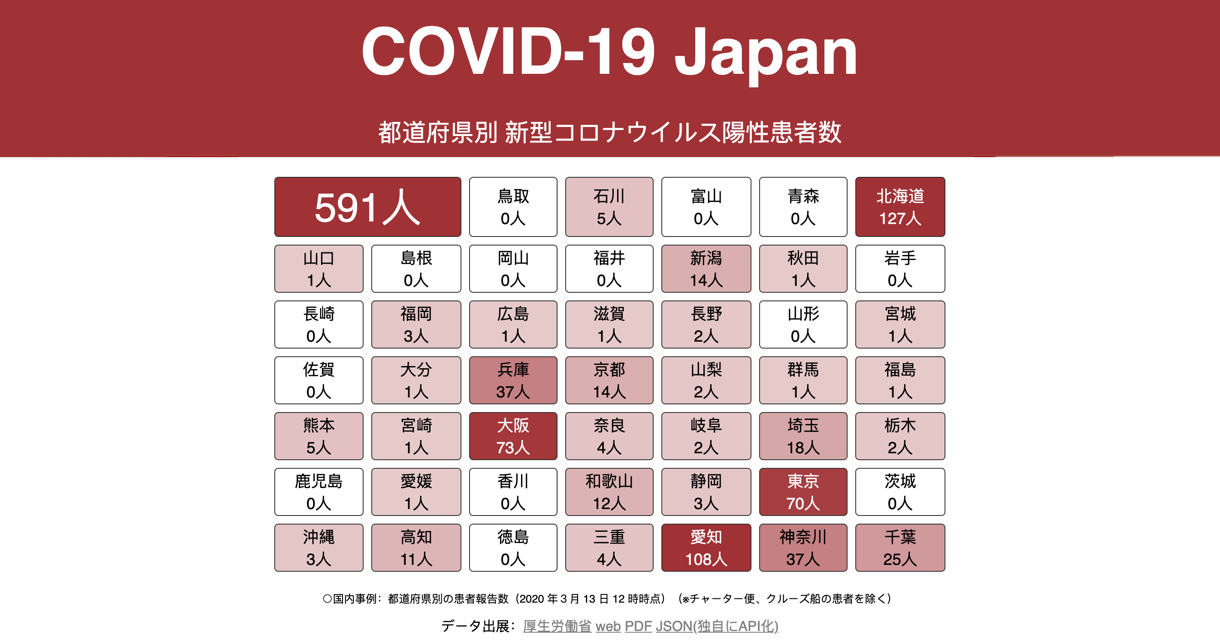
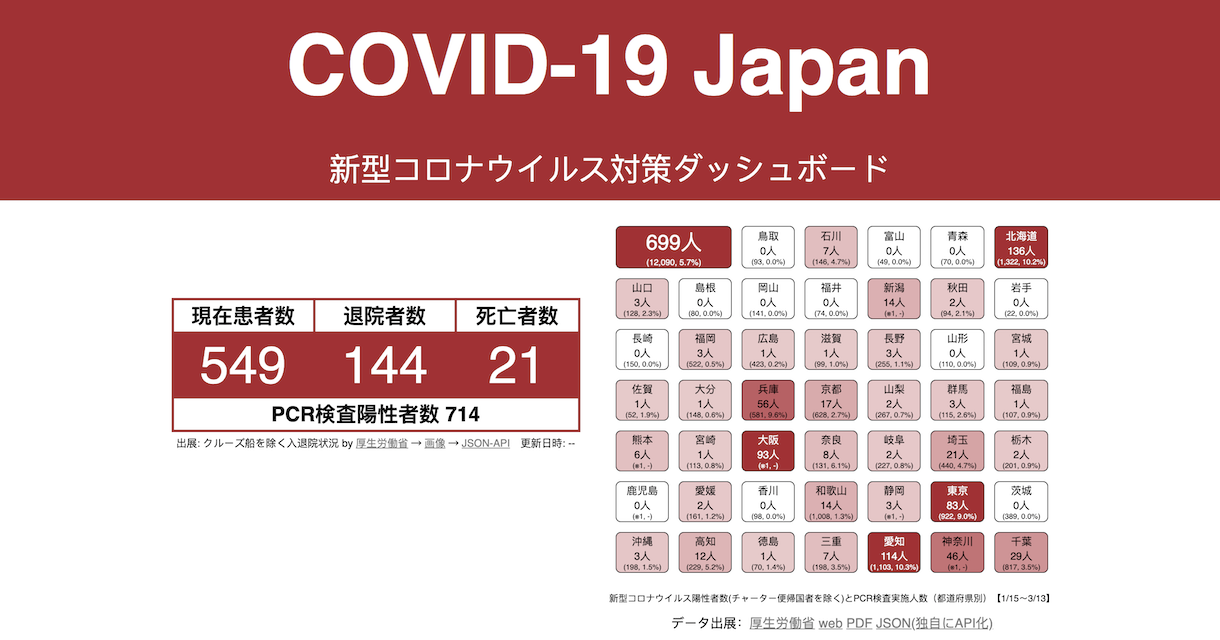
PCR検査数反映、レスポンシブ対応

diff --git a/index.html b/index.html
@@ -2,8 +2,7 @@
 <head>
 <meta charset="utf-8"/>
 <title>COVID-19 JAPAN - 都道府県別 新型コロナウイルス陽性患者数 （カラム地図7x7、厚生労働省データ）</title>
-<meta name="apple-mobile-web-app-capable" content="yes"/>
-<meta name="apple-mobile-web-app-status-bar-style" content="black"/>
+<meta name="viewport" content="width=device-width, initial-scale=1.0, maximum-scale=1.0, minimum-scale=1.0"/>
 <link rel="apple-touch-icon" href="japan7x7.png"/>
 <meta property="og:image" content="japan7x7.png">
 <meta name="format-detection" content="telephone=no"/>
@@ -23,13 +22,14 @@ const showSummary = async function() {
 			div.textContent = n
 		}
 	}
+	imgurl.innerHTML = `<a href=${json.srcurl_img}>画像</a> → `
 }
 window.onload = async function() {
 	await showSummary()
 
 	get("japan").innerHTML += makeJapanHTML()
 
-	const url = 'https://app.sabae.cc/api/covid19japan.json'
+	const url = 'https://app.sabae.cc/api/covid19japan.json?type=withpcr'
 	const json = await (await fetch(url)).json()
 	console.log(json)
 	init(json)
@@ -39,31 +39,12 @@ window.onload = async function() {
 	}
 	datasrc.innerHTML = 'データ出展：' + link('https://www.mhlw.go.jp/index.html', '厚生労働省') + " " + link(json.srcurl_web, 'web') + '&nbsp;' + link(json.srcurl_pdf, 'PDF') + "&nbsp;" + link(url, 'JSON(独自にAPI化)')
 }
+const calcRatio = function(cnt, base) {
+	if (isNaN(cnt) || isNaN(base))
+		return "-"
+	return fixfloat(cnt / base * 100, 1) + "%"
+}
 const init = function(data) {
-
-	const countPref = function(pref) {
-		let cnt = 0
-		for (let i = 0; i < data.length; i++) {
-			const p = data[i].pref
-			if (p.startsWith(pref)) {
-				const c = data[i].city
-				cnt++
-			}
-		}
-		return cnt
-	}
-	const countPrefSSL = function(pref) {
-		let cnt = 0
-		for (let i = 0; i < data.length; i++) {
-			const p = data[i].pref
-			if (p.startsWith(pref)) {
-				const c = data[i].url
-				if (c.startsWith("https://"))
-					cnt++
-			}
-		}
-		return cnt
-	}
 //	dump(data);
 	let max = 0
 	for (let i = 0; i < data.area.length; i++) {
@@ -71,7 +52,6 @@ const init = function(data) {
 			max = data.area[i].npatients
 	}
 	let sum = 0
-	let njapan = data.npatients
 	for (let i = 1; i <= 47; i++) {
 		const c = get("jp" + i)
 		c.num = i - 1
@@ -79,9 +59,10 @@ const init = function(data) {
 			this.sel()
 		}
 		const cnt = data.area[i - 1].npatients
+		const cnti = data.area[i - 1].ninspections
 		sum += cnt
 		const r = cnt / max
-		c.innerHTML += "<br>" + cnt + "人"
+		c.innerHTML += `<br>${cnt}人<div class=pcr>(${addComma(cnti)}, ${calcRatio(cnt, cnti)})</div>`
 		if (cnt == 0) {
 		} else {
 			// AD232F
@@ -99,8 +80,8 @@ const init = function(data) {
 	s += "区市町村AOSSL取組率 " + fixfloat(sumodc / sum * 100, 1) + "% （" + sumodc + "都市 / 都道府県含めると " + (sumodc + 47) + "サイト）<br>"
 	s += "日本の都市数：" + sum + " （都道府県を含まず）<br>"
 	*/
-	jpall.innerHTML = sum + "人"
-	jpall.style.fontSize = "5vw"
+	jpall.innerHTML = `${sum}人<div class=pcrsum>(${addComma(data.ninspections)}, ${calcRatio(sum, data.ninspections)})</div>`
+	jpall.style.fontSize = "160%"
 	jpall.style.background = 'var(--main-color)'
 	jpall.style.color = 'white'
 	//jpall.style.background = "rgba(0,20,130," + r + ")"
@@ -207,8 +188,28 @@ h1 {
 	font-size: 3vw;
 }
 
+#summary {
+	display: inline-block;
+	vertical-align: middle;
+	max-width: 500px;
+	margin-right: 20px;
+	margin-left: 20px;
+}
+@media screen and (min-width: 1126px) {
+	#summary {
+		margin-top: 100px;
+	}
+}
+#cmap {
+	display: inline-block;
+	vertical-align: top;
+	max-width: 600px;
+}
+
 #summarytable {
 	display: inline-block;
+	margin-left: auto;
+	margin-right: auto;
 	border-collapse: collapse;
 	margin-bottom: 0.5vh;
 }
@@ -239,9 +240,15 @@ h1 {
 
 #description {
 	margin: 1em;
-	font-size: 80%;
+	font-size: 70%;
 }
 
+.pcr {
+	font-size: 65%;
+}
+.pcrsum {
+	font-size: 40%;
+}
 a {
 	color: gray !important;
 }
@@ -261,7 +268,7 @@ a {
 /* japan */
 #japan {
 	display: inline-block;
-	width: 90vw;
+	width: 100%; /*90vw; */
 	max-width: 800px;
 	x-height: 80vw;
 	x-background: red;
@@ -270,11 +277,12 @@ a {
 #jp0 {
 	border-spacing: 1vw;
 	border-collapse: separate;
+	margin: auto;
 }
 #jp0 td {
-	width: calc(90vw / 7);
+	width: 14%; /*calc(90vw / 7); */
 	x-height: calc(60vw / 7);
-	font-size: 2vw;
+	font-size: 80%; /*2vw; */
 	vertical-align: middle;
 	text-align: center;
 	border-radius: .5vw;
@@ -289,17 +297,22 @@ a {
 <h1 id=title>COVID-19 Japan</h1><div class=subtitle>新型コロナウイルス対策ダッシュボード</div>
 
 <div class="content">
+
+<div id=summary>
 <table id=summarytable>
 	<tr><th>現在患者数</th><th>退院者数</th><th>死亡者数</th></tr>
 	<tr><td id=ncurrentpatients></td><td id=nexits></td><td id=ndeaths></td></tr>
 	<tr><th colspan=3>PCR検査陽性者数 <span id=npatients></span></th></tr>
 </table>
-<div id=summarydesc>出展: クルーズ船を除く入退院状況 by <a href=https://www.mhlw.go.jp/stf/seisakunitsuite/bunya/0000164708_00001.html>厚生労働省</a> → <a href=https://app.sabae.cc/api/covid19japan_summary.json>JSON-API</a><span id=lastupdatebox>更新日時: <span id=lastUpdate></span></span></div>
+<div id=summarydesc>出展: クルーズ船を除く入退院状況 by <a href=https://www.mhlw.go.jp/stf/seisakunitsuite/bunya/0000164708_00001.html>厚生労働省</a> → <span id=imgurl></span><a href=https://app.sabae.cc/api/covid19japan_summary.json>JSON-API</a><span id=lastupdatebox>更新日時: <span id=lastUpdate></span></span></div>
+</div>
 
+<div id=cmap>
 <div id="japan"></div>
 <div id=description></div>
-
 <div id='datasrc'></div>
+</div>
+
 </div>
 
 <div class="credit">
